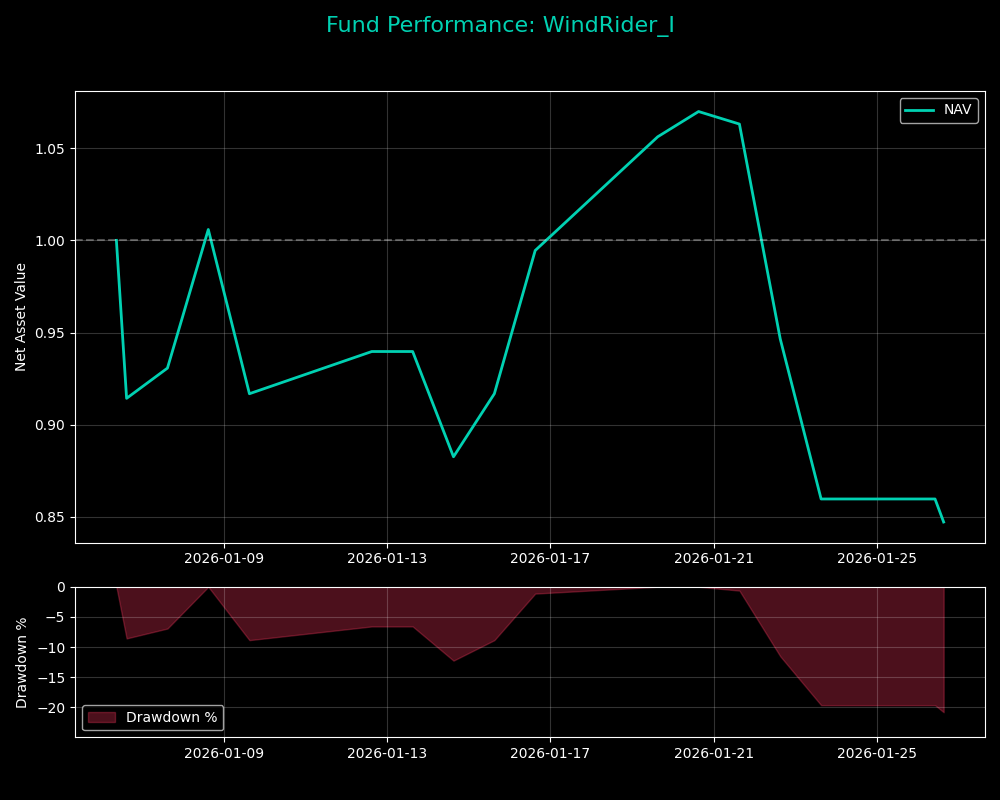
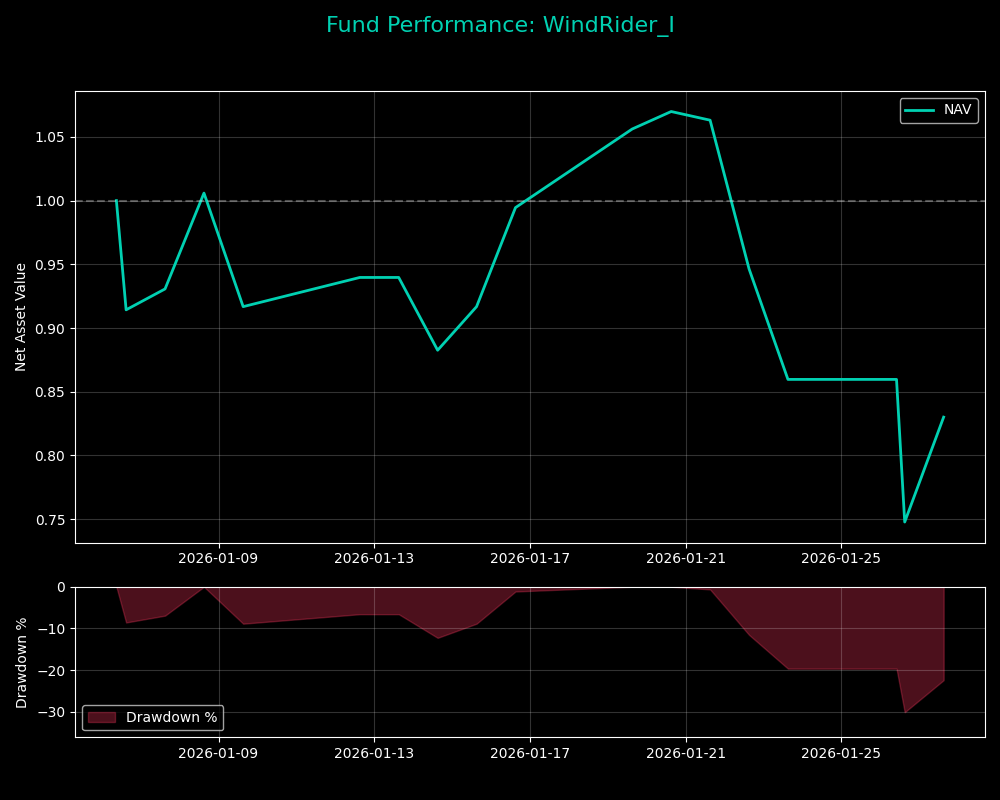
Updated Hugo site content

diff --git a/content/investment/windrider-1.md b/content/investment/windrider-1.md
@@ -1,8 +1,8 @@
 +++
 title = "风舵1号 (WindRider I)  /// 指数"
 summary = "商品期货分形摆动策略，实盘最新净值与核心风险指标。"
-date = 2026-01-26T15:15:03+08:00
-lastmod = 2026-01-26T15:15:03+08:00
+date = 2026-01-27T15:15:03+08:00
+lastmod = 2026-01-27T15:15:03+08:00
 draft = false
 description = "商品期货分形摆动策略实盘"
 +++
@@ -15,24 +15,24 @@ description = "商品期货分形摆动策略实盘"
 
 ### 风舵1号 (WindRider I) &nbsp;&nbsp;<span style="color: #E63946; font-weight: bold;">/</span><span style="color: #F1A73E; font-weight: bold;">/</span><span style="color: #000091; font-weight: bold;">/</span>&nbsp;&nbsp; 指数
 商品期货分形摆动策略实盘<br>
-净值简报 <small>(截至: 2026-01-26)</small>
+净值简报 <small>(截至: 2026-01-27)</small>
 
 |  |  |
 | :--- | :--- |
 | **指数代码：** | WDR1.CTA |
 | **起步日期：** | 2026-01-06 |
-| **最新净值：** | 0.8472 |
-| **今日涨跌：** | -1.45% |
+| **最新净值：** | 0.8301 |
+| **今日涨跌：** | +11.01% |
 
 ===========================
 
 | 核心指标 | |
 | :--- | :--- |
-| **累计涨跌：** | -15.28% |
-| **年化收益：** | -95.15% |
-| **最大回撤：** | -20.82% |
-| **卡玛比率：** | -4.57 |
-| **策略状态：** | 已运行 21 天 |
+| **累计涨跌：** | -16.99% |
+| **年化收益：** | -96.07% |
+| **最大回撤：** | -30.11% |
+| **卡玛比率：** | -3.19 |
+| **策略状态：** | 已运行 22 天 |
 
 ### 净值曲线图
 ![风舵1号净值曲线](/images/investment/windrider_nav.png)
